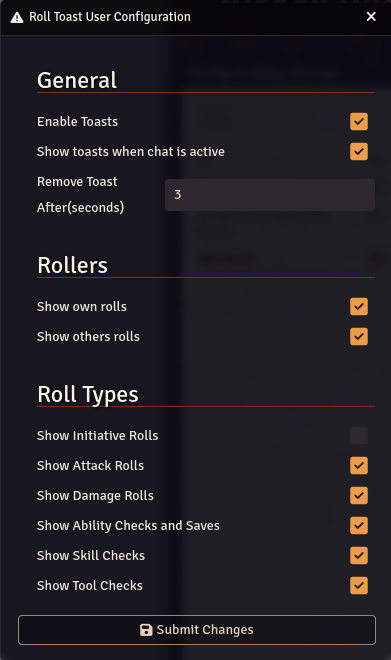
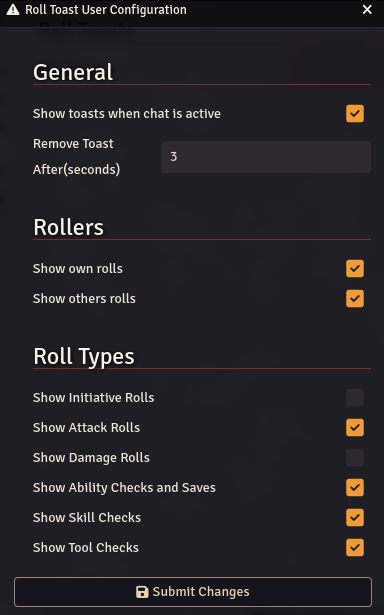
updated readme

diff --git a/README.md b/README.md
@@ -2,8 +2,8 @@
 Are you sick of switching to the chat log to see a roll result? I know I was!
 
 
-Roll Toasts is a module for DnD 5E System that allows the user to see rolls in a toast notification feed.
-Each toast notification is a simple view of the character, roll type and result (including adv. and dis. markers).
+Roll Toasts is a module for DnD 5E and P2FE Systems that allows the user to see rolls in a toast notification feed.
+Each toast notification is a simple view of the character, roll type and result.
 
 ![main screenshot](screens/main.png)
 
@@ -13,7 +13,6 @@ Setup is per user and allows you to filter what you want and don't want to see.
 
 # Settings Reference
 ## General
- - **Enable Toasts** - enable/disable all toast notifications.
  - **Show toasts when chat is active** - if ticked, the user will still see toasts when chat window is active.
  - **Remove Toast After(seconds)** - How many seconds till the toast automatically removes itself (empty will be 0 seconds)
 
@@ -23,3 +22,4 @@ Setup is per user and allows you to filter what you want and don't want to see.
 
 ## Roll Types
 These settings will set what rolls you will see from your own or anyone else's rolls.
+The options vary by system.
